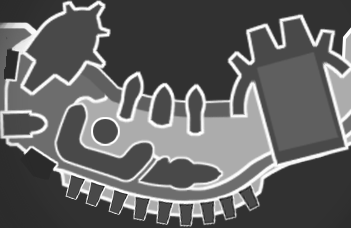
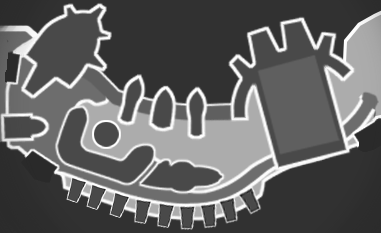
First draft of all BCL Summer 2022 Major maps finished!

diff --git a/ObjMonitor/ObjForm.cs b/ObjMonitor/ObjForm.cs
@@ -54,12 +54,11 @@ namespace ObjMonitor
             map_to_image_file["mus1"] = "..\\..\\assets\\minimaps_trimmed\\mus1_trimmed.png";
             map_to_image_file["tat3"] = "..\\..\\assets\\minimaps_trimmed\\tat3_trimmed.png";
             map_to_image_file["KEK"] = "..\\..\\assets\\minimaps_trimmed\\KEK_trimmed_grayscale.png";
-            map_to_image_file["DG2"] = "..\\..\\assets\\minimaps_trimmed\\DG2_trimmed.png";
-            map_to_image_file["ed9"] = "..\\..\\assets\\minimaps_trimmed\\ed9_trimmed.png";
+            map_to_image_file["DG2"] = "..\\..\\assets\\minimaps_trimmed\\dag1_trimmed.png";
+            map_to_image_file["ED9"] = "..\\..\\assets\\minimaps_trimmed\\ed9_trimmed.png";
             map_to_image_file["RVN"] = "..\\..\\assets\\minimaps_trimmed\\Rhn1_trimmed2.png";
-            map_to_image_file["Rhn2"] = "..\\..\\assets\\minimaps_trimmed\\Rhn2_trimmed_grayscale.png";
-            map_to_image_file["uta"] = "..\\..\\assets\\minimaps_trimmed\\uta_trimmed.png";
-            //map_to_xminmax_yminmax["tat2g_con"] = Tuple.Create(-137.59, 139.11, -103.86, 94.15);
+            map_to_image_file["RVC"] = "..\\..\\assets\\minimaps_trimmed\\Rhn2_trimmed_grayscale.png";
+            map_to_image_file["uta1"] = "..\\..\\assets\\minimaps_trimmed\\uta1_trimmed2.png";
             // You can quickly find these coordinates in freecam mode.
             // The ymin and ymax listed below correspond to the zmin and ymin from the game because the game uses xz-coordinates.
             map_to_xminmax_yminmax["tat2"] = Tuple.Create(-137.59, 139.11, -103.86, 94.15);
@@ -69,21 +68,22 @@ namespace ObjMonitor
             map_to_xminmax_yminmax["tat3"] = Tuple.Create(-127.7, 4.9, 50.1, 196.9);
             map_to_xminmax_yminmax["KEK"] = Tuple.Create(-180.0, 135.9, 64.24, 288.3);
             map_to_xminmax_yminmax["DG2"] = Tuple.Create(-75.6, 148.11, -167.1, 188.9);
-            //todo
-            map_to_xminmax_yminmax["RVN"] = Tuple.Create(108.0, 305.85, 270.0, 460.1); //106.7, 295.85, 270.0, 460.1);
-            map_to_xminmax_yminmax["Rhn2"] = Tuple.Create(-320.32, -88.65, -290.2, -64.4);
-            map_to_xminmax_yminmax["uta"] = Tuple.Create(-222.0, 125.5, 82.0, 297.3);  //82->92?a
-            // Sometimes, the game
+            map_to_xminmax_yminmax["RVN"] = Tuple.Create(108.0, 305.85, 270.0, 460.1);
+            map_to_xminmax_yminmax["RVC"] = Tuple.Create(-320.32, -86.65, -292.2, -63.4);
+            map_to_xminmax_yminmax["uta1"] = Tuple.Create(-223.0, 134.2, 81.0, 304.3);
+            map_to_xminmax_yminmax["ED9"] = Tuple.Create(-70.0, 202.3, 8.48, 160.3);
+            // Some coordinates need to be reversed.
             map_to_xdir_ydir["tat2"] = Tuple.Create(1, -1);
-            map_to_xdir_ydir["C0R"] = Tuple.Create(-1, 1);
+            map_to_xdir_ydir["C0R"] = Tuple.Create(-1, 1); // For some reason, Cor patched has the x and z reversed.
             map_to_xdir_ydir["TI2"] = Tuple.Create(1, -1);
             map_to_xdir_ydir["mus1"] = Tuple.Create(1, -1);
             map_to_xdir_ydir["tat3"] = Tuple.Create(1, -1);
             map_to_xdir_ydir["KEK"] = Tuple.Create(1, -1);
             map_to_xdir_ydir["DG2"] = Tuple.Create(1, -1);
             map_to_xdir_ydir["RVN"] = Tuple.Create(1, -1);
-            map_to_xdir_ydir["Rhn2"] = Tuple.Create(1, -1);
-            map_to_xdir_ydir["uta"] = Tuple.Create(1, -1);
+            map_to_xdir_ydir["RVC"] = Tuple.Create(1, -1);
+            map_to_xdir_ydir["uta1"] = Tuple.Create(1, -1);
+            map_to_xdir_ydir["ED9"] = Tuple.Create(1, -1);
         }
 
         private void ObjForm_Load(object sender, EventArgs e)
@@ -176,10 +176,10 @@ namespace ObjMonitor
                 if (obj.EntitySoldier.Health > 0)
                 {
                     chart_map.Series[0].Points.Add(new DataPoint(obj.EntitySoldier.X * current_xdir, obj.EntitySoldier.Z * current_ydir));
-                    if (obj.Name.Contains("Widow"))
-                    {
-                        Console.WriteLine($"Widow (x, z) = ({obj.EntitySoldier.X}, {obj.EntitySoldier.Z}, (xdir, ydir) = ({current_xdir}, {current_ydir})");
-                    }
+                    //if (obj.Name.Contains("Widow"))
+                    //{
+                    //    Console.WriteLine($"Widow (x, z) = ({obj.EntitySoldier.X}, {obj.EntitySoldier.Z}, (xdir, ydir) = ({current_xdir}, {current_ydir})");
+                    //}
                 }
                 //Create listview item
                 var li = new ListViewItem();
@@ -278,10 +278,10 @@ namespace ObjMonitor
                 if (obj.EntitySoldier.Health > 0)
                 {
                     chart_map.Series[1].Points.Add(new DataPoint(obj.EntitySoldier.X * current_xdir, obj.EntitySoldier.Z * current_ydir));
-                    if (obj.Name.Contains("Widow"))
-                    {
-                        Console.WriteLine($"Widow (x, z) = ({obj.EntitySoldier.X}, {obj.EntitySoldier.Z}, (xdir, ydir) = ({current_xdir}, {current_ydir})");
-                    }
+                    //if (obj.Name.Contains("Widow"))
+                    //{
+                    //    Console.WriteLine($"Widow (x, z) = ({obj.EntitySoldier.X}, {obj.EntitySoldier.Z}, (xdir, ydir) = ({current_xdir}, {current_ydir})");
+                    //}
                 }
 
                 var li = new ListViewItem();

diff --git a/ObjMonitor/ObjForm.Designer.cs b/ObjMonitor/ObjForm.Designer.cs
@@ -299,11 +299,11 @@ namespace ObjMonitor
             this.comboBox_map.FormattingEnabled = true;
             this.comboBox_map.Items.AddRange(new object[] {
             "C0R",
-            "dag1",
+            "DG2",
             "ed9",
             "KEK",
             "mus1",
-            "Rhn1",
+            "RVN",
             "Rhn2",
             "tat2",
             "tat3",
